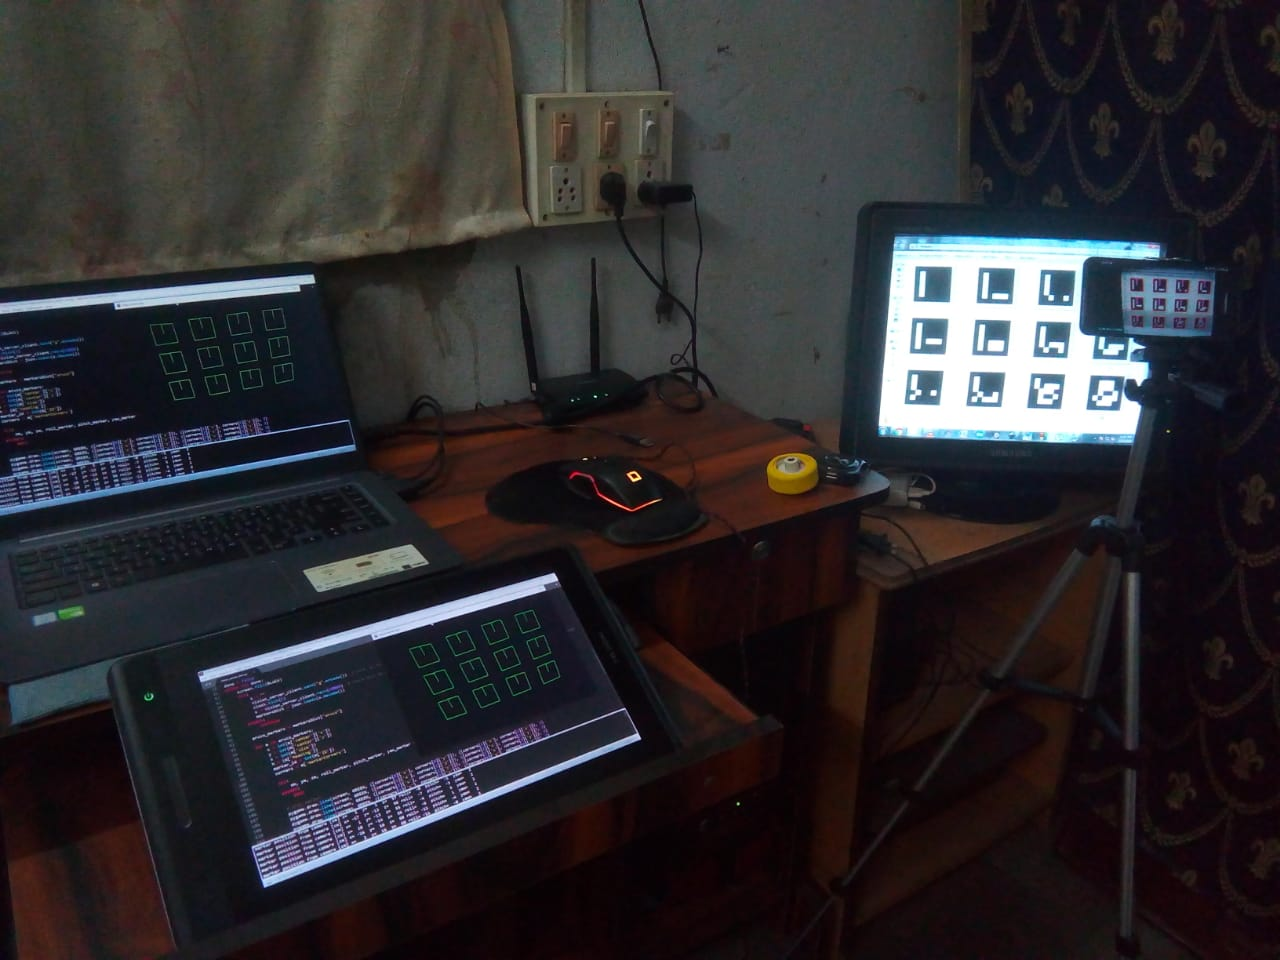
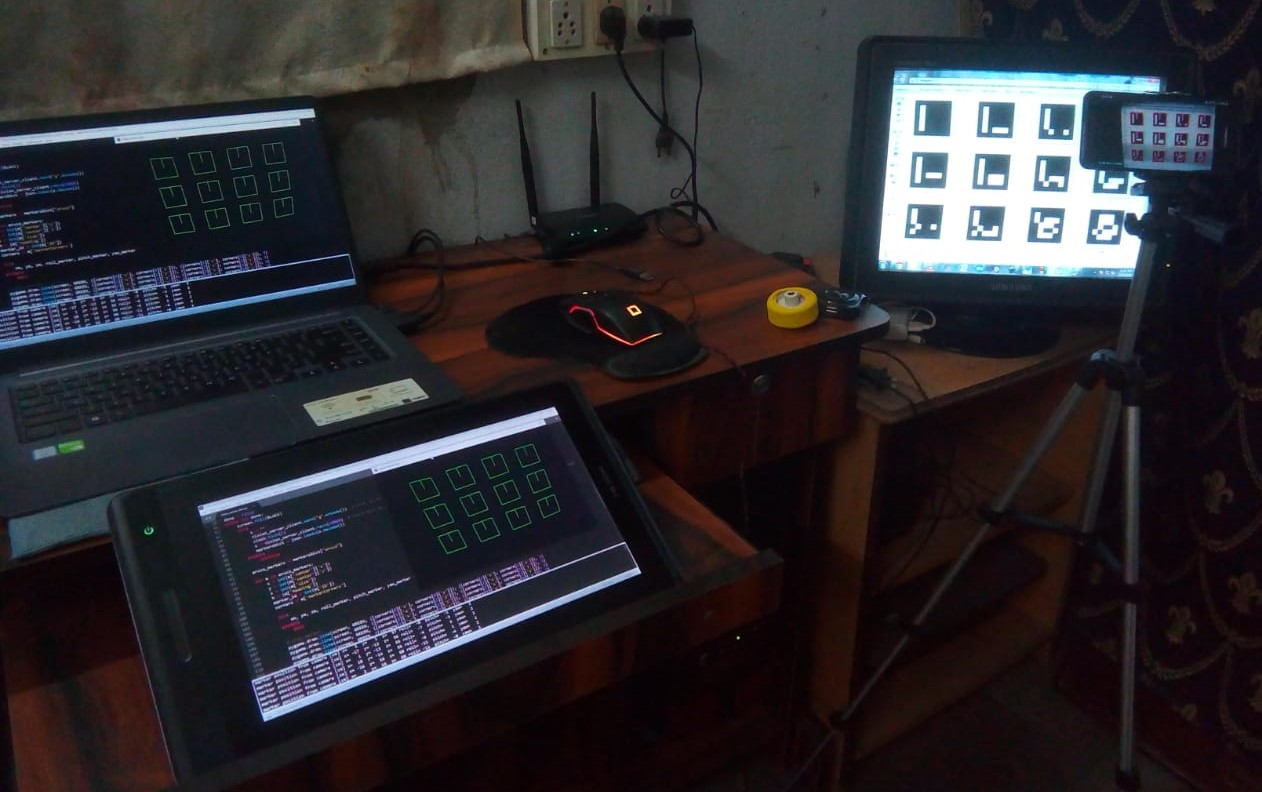
add images and update README

diff --git a/src/marker_orientation.py b/src/marker_orientation.py
@@ -1,14 +1,16 @@
+# importing required modules
 import cv2
 import cv2.aruco as aruco
 import numpy as np
 import math
 
-# get the camera calibration path
+# getting the camera calibration path
 calib_path = "../camera_calibration_config/"
+# getting camera intrinsic parameters
 camera_matrix = np.loadtxt(calib_path + "cameraMatrix.txt", delimiter=",")
 camera_distortion = np.loadtxt(calib_path + "distortionCoefficients.txt", delimiter=",")
 
-# 180 deg rotation matrix around the x axis
+# creating 180 deg rotation matrix around the x axis
 R_flip = np.zeros((3, 3), dtype=np.float32)
 R_flip[0, 0] = 1.0
 R_flip[1, 1] = -1.0
@@ -22,13 +24,11 @@ def isRotationMatrix(R):
     n = np.linalg.norm(I - shouldBeIdentity)
     return n < 1e-6
 
-
 # function to calculate rotation matrix to euler angles
 def rotationMatrixToEulerAngles(R):
     assert (isRotationMatrix(R))
 
     sy = math.sqrt(R[0, 0] * R[0, 0] + R[1, 0] * R[1, 0])
-
     singular = sy < 1e-6
 
     if not singular:
@@ -52,18 +52,18 @@ def getMarkerOrientation(corners, real_marker_size):
     # pose estimation
     markerPose = aruco.estimatePoseSingleMarkers(np_corners, real_marker_size, camera_matrix, camera_distortion)
     rvec, tvec = markerPose[0][0, 0, :], markerPose[1][0, 0, :]
+    # getting the rotation matrix tag -> camera
+    R_ct = np.matrix(cv2.Rodrigues(rvec)[0])
+    R_tc = R_ct.T
+    
+    # getting the position from tvec
     xm = tvec[0]
     ym = tvec[1]
     zm = tvec[2]
-
-    # getting the rotation matrix tag->camera
-    R_ct = np.matrix(cv2.Rodrigues(rvec)[0])
-    R_tc = R_ct.T
-
-    # getting the attitude/orientation in terms of euler 321
+    # getting the attitude from rvec (in terms of euler 321 angles)
     roll_marker, pitch_marker, yaw_marker = rotationMatrixToEulerAngles(R_flip * R_tc)
-
-    str_position = "marker position from camera [cm] x=%4.0f  y=%4.0f  z=%4.0f" % (xm, ym, zm)
+    # printing the marker orientation in terms of tvec (xm, ym, zm) and rvec (roll, pitch, yaw)
+    str_position = "Marker pos [cm] x=%4.0f  y=%4.0f  z=%4.0f" % (xm, ym, zm)
     str_position += " roll=%4.0f  pitch=%4.0f  yaw=%4.0f" % (math.degrees(roll_marker), math.degrees(pitch_marker), math.degrees(yaw_marker))
     print(str_position)
 

diff --git a/src/aruco_nav_sim.py b/src/aruco_nav_sim.py
@@ -22,8 +22,8 @@ aruco_vision_client = socket.socket(socket.AF_INET, socket.SOCK_STREAM)
 # pygame window name
 window_name = "ArUco-Scanner-Nav-Sim"
 # pygame window size
-width = 720
-height = 480
+width = 1280
+height = 720
 size = [width, height]
 # pygame colors
 BLACK = (0, 0, 0)
@@ -64,7 +64,7 @@ while not done:
         aruco_vision_client.send("g".encode())
         clock.tick(5)
         # storing JSON response containing marker data
-        s = aruco_vision_client.recv(10000)
+        s = aruco_vision_client.recv(100000)
         # populating marker dictionary with received marker data
         markersDict = json.loads(s.decode())
     except:
@@ -114,9 +114,17 @@ while not done:
             # end position coordinates
             Pj = (int(corners[j]["x"]), int(corners[j]["y"]))
             # line connecting start and end positions
-            pygame.draw.line(screen, GREEN, Pi, Pj, 3)
+            if marker_id in [25, 400, 750, 900]:
+            	# barrier markers
+                pygame.draw.line(screen, RED, Pi, Pj, 3)
+            else:
+                pygame.draw.line(screen, GREEN, Pi, Pj, 3)
         # drawing heading line
-        pygame.draw.line(screen, CYAN, (Xc, Yc), (Xt, Yt), 3)
+        if marker_id in [25, 400, 750, 900]:
+        	# barrier markers
+            pygame.draw.line(screen, RED, (Xc, Yc), (Xt, Yt), 3)
+        else:
+            pygame.draw.line(screen, CYAN, (Xc, Yc), (Xt, Yt), 3)
         # showing marker ID at the center
         blitText(str(marker_id), WHITE, Xc, Yc)
 

diff --git a/README.md b/README.md
@@ -1,100 +1,51 @@
-# Project name
+# ArUco-Nav
 
-<!--- These are examples. See https://shields.io for others or to customize this set of shields. You might want to include dependencies, project status and licence info here --->
-![GitHub repo size](https://img.shields.io/github/repo-size/scottydocs/README-template.md)
-![GitHub contributors](https://img.shields.io/github/contributors/scottydocs/README-template.md)
-![GitHub stars](https://img.shields.io/github/stars/scottydocs/README-template.md?style=social)
-![GitHub forks](https://img.shields.io/github/forks/scottydocs/README-template.md?style=social)
-![Twitter Follow](https://img.shields.io/twitter/follow/scottydocs?style=social)
+### Localization and visual navigation of a scalable robot swarm using ArUco markers.
 
-`<project name>` is a `<utility/tool/feature>` that allows `<insert_target_audience>` to do `<action/task_it_does>`.
+Localization of ArUco markers -
+![localization-sim](images/localization.png)
 
-`<insert images/screenshots here>`
+Swarm navigation simulated in a pygame window -
+![navigation-sim](images/navigation.png)
 
-<div align="center">
-  <img src="https://image.flaticon.com/icons/svg/685/685686.svg" width="50%">
-</div>
+For simulating the navigation and logging the results, a simple 15 seconds scene was arranged with 3 swarm robots (indicated by their green bounding boxes and their
+ArUco marker IDs) and 4 barrier points (indicated by red bounding boxes).
 
-Additional line of information text about what the project does.
+ArUco-Nav setup -
+![setup](images/setup.jpg)
 
-## Built with
+A total of 60 frames were recorded and scanned at the rate of 8fps using the overhead smart phone camera running ```ArUco Scanner``` server at ```192.168.2.2:5000```.
+The response obtained from the server was processed to log the marker (and hence, the robot) orientation in 2D space (using the tvec and rvec components - xm, ym, zm, roll,
+pitch and yaw).
 
-- [jQuery - Ajax](http://www.w3schools.com/jquery/jquery_ref_ajax.asp) - jQuery simplifies HTML document traversing, event handling, animating, and Ajax interactions for rapid web development.
-- [Bootstrap](http://getbootstrap.com/) - Extensive list of components and  Bundled Javascript plugins.
-- `<insert other components>`
+The final simulation as shown in the pygame window ```ArUco
+Scanner Nav Sim``` -
+![output-simulation](images/output.png)
 
-## Prerequisites
-
-Before you begin, ensure you have met the following requirements:
-* You have installed the latest version of `<coding_language/dependency/requirement_1>`
-* You have a `<Windows/Linux/Mac>` machine.
-* You have read `<guide/link/documentation_related_to_project>`.
-
-## Installing <project_name>
-
-If all the requirements are met, follow these steps to install `<project_name>`:
+### Using ArUco-Nav
 
 From the command line, execute the following:
 
 ```bash
 # Clone this repository
-$ git clone <insert repository name>
+$ git clone https://github.com/ArUco-Nav-Final-Year-Project-20/ArUco-Nav.git/
 ```
 ```bash
 # Go into the repository
-$ cd <project name>
+$ cd ArUco-Nav/
 ```
-
-`<insert .env file related steps and similar setup>`
-
 ```bash
 # Install dependencies
-$ npm install
+$ pip install numpy
+$ pip install opencv-contrib-python
+$ pip install simple-pid
 ```
+Calibrate the camera and replace the contents of the ```cameraMatrix.txt``` and ```distortionCoefficients.txt``` files inside the ```camera_calibration_config``` folder with the appropriate intrinsic parameter values.
+
+Launch the ArUco Scanner app and replace the ```aruco_vision_server_IP``` address with the one obtained from the application screen.
+
+
 ```bash
-# Run the app
-$ npm start
+# Localize ArUco markers
+$ python aruco_nav_sim.py
 ```
-Once server is setup, open http://localhost:3000 and take a look around!
-
-## Using <project_name>
-
-To use `<project_name>`, follow these steps:
-
-```
-<usage_example>
-```
-
-Add run commands and examples you think users will find useful. Provide an options reference for bonus points!
-
-## Contributing to <project_name>
-<!--- If your README is long or you have some specific process or steps you want contributors to follow, consider creating a separate CONTRIBUTING.md file--->
-To contribute to <project_name>, follow these steps:
-
-1. Fork this repository.
-2. Create a branch: `git checkout -b <branch_name>`.
-3. Make your changes and commit them: `git commit -m '<commit_message>'`
-4. Push to the original branch: `git push origin <project_name>/<location>`
-5. Create the pull request.
-
-Alternatively see the GitHub documentation on [creating a pull request](https://help.github.com/en/github/collaborating-with-issues-and-pull-requests/creating-a-pull-request).
-
-## Contributors
-
-Thanks to the following people who have contributed to this project:
-
-* [@scottydocs](https://github.com/scottydocs) 📖
-* [@cainwatson](https://github.com/cainwatson) 🐛
-* [@calchuchesta](https://github.com/calchuchesta) 🐛
-
-You might want to consider using something like the [All Contributors](https://github.com/all-contributors/all-contributors) specification and its [emoji key](https://allcontributors.org/docs/en/emoji-key).
-
-## Contact
-
-If you want to contact me you can reach me at <your_email@address.com>.
-
-
-## License
->You can check out the full license [here](LICENSE.md)
-
-This project is licensed under the terms of the **`<insert license name>`** license.
